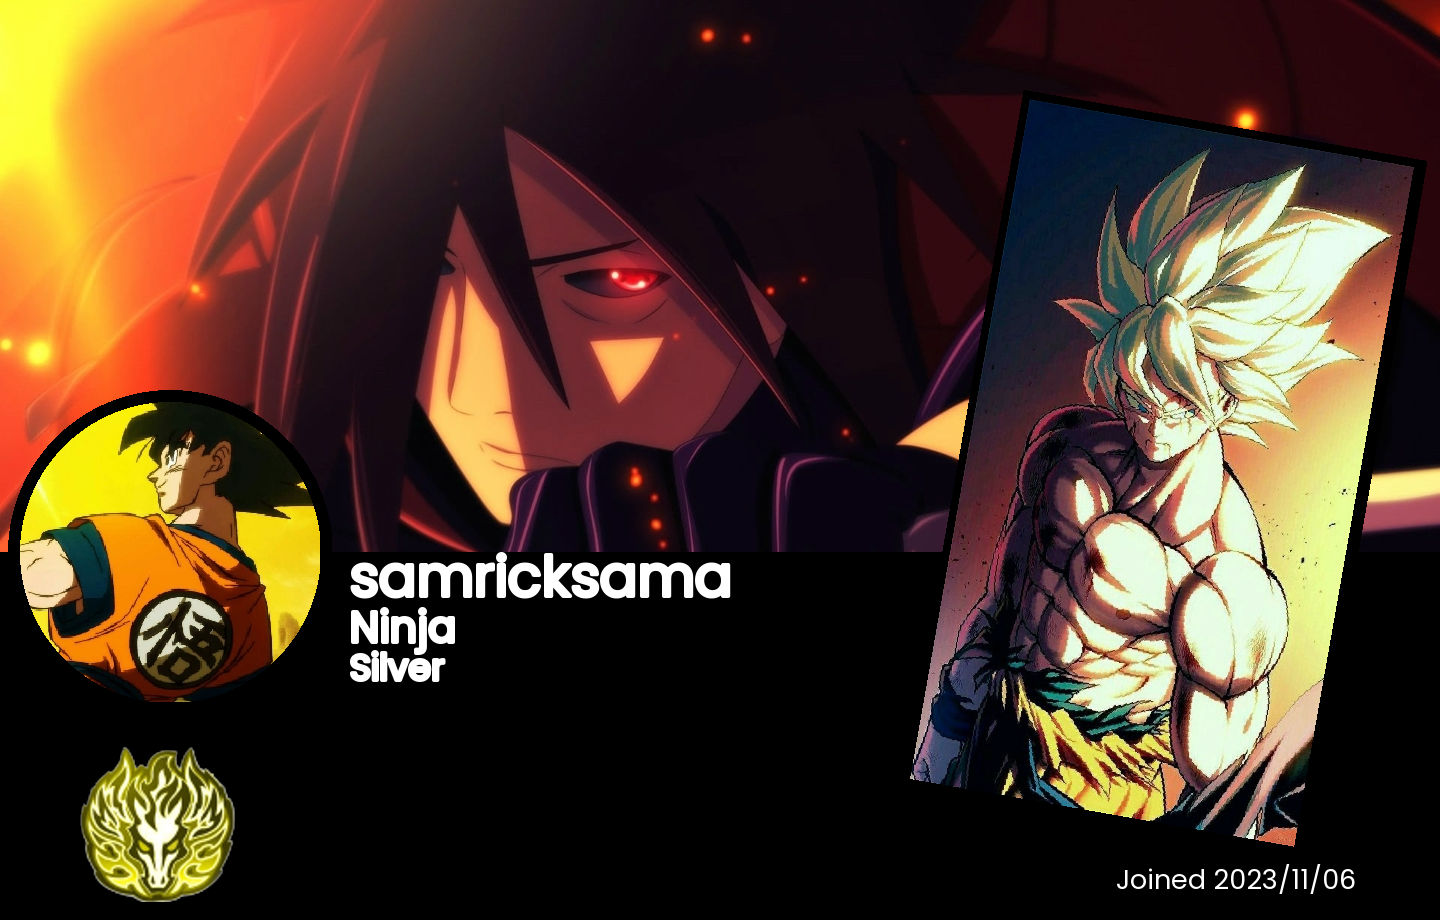
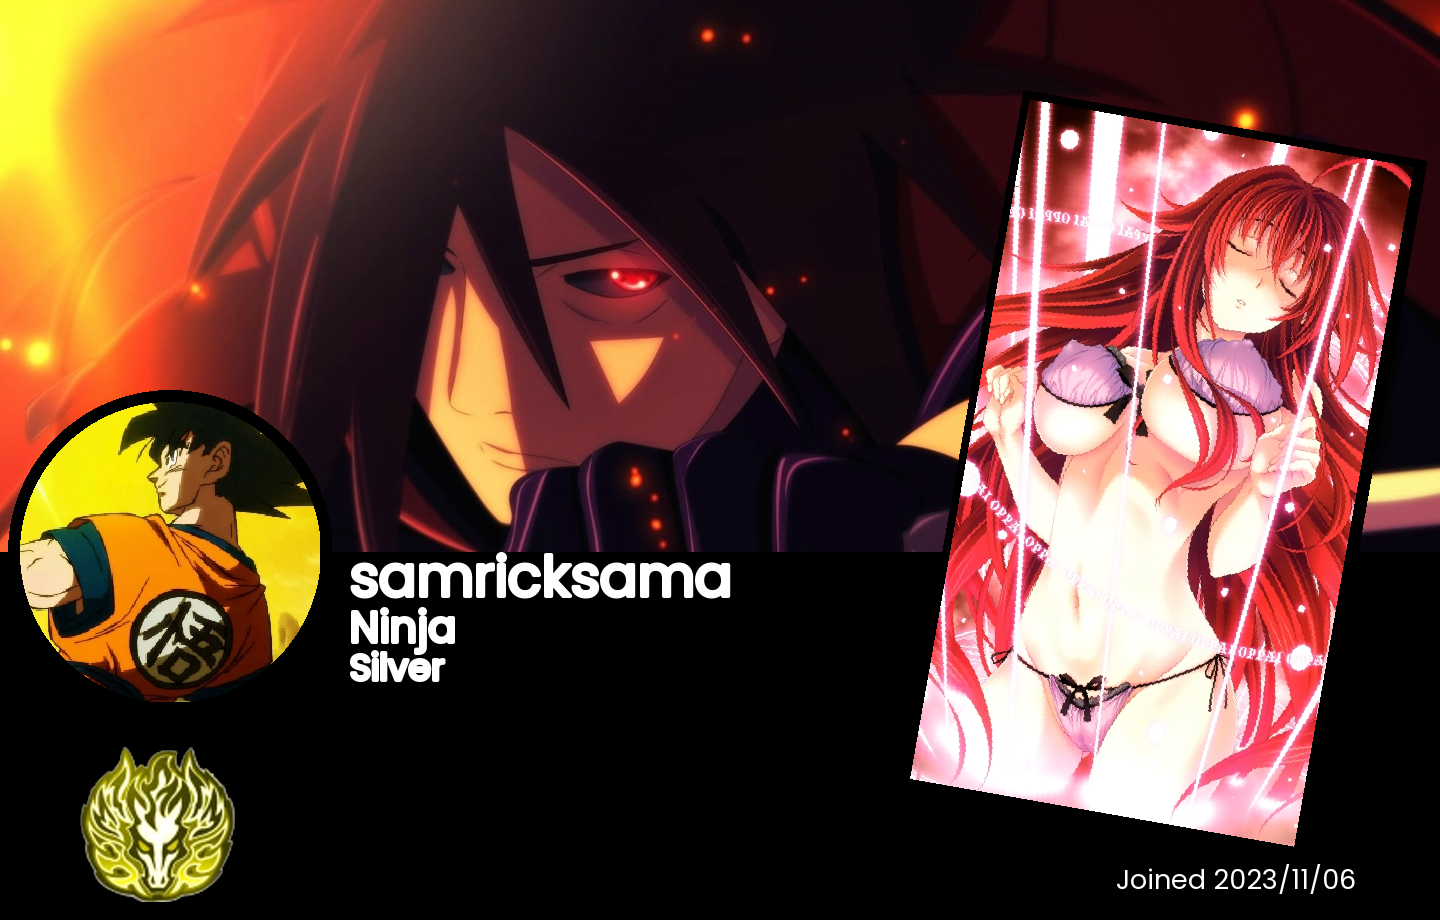
a

Changed region(s): [[0.625, 0.0913, 1.0, 0.9435]]

diff --git a/Convictions/bgshop.py b/Convictions/bgshop.py
@@ -90,7 +90,12 @@ background_prices = {
     84: 9000,
     85: 6900,
     86: 14000,
-    87: 15000
+    87: 15000,
+    88: 18000,
+    89: 9000,
+    90: 6900,
+    91: 14000,
+    
 }
 
 # Define background descriptions (adjust as needed)
@@ -181,7 +186,11 @@ background_descriptions = {
     84: "Itachi : Ur already in my genjutsu",
     85: "itachi : daddy version",
     86: "gojo : nice ",
-    87: "gojo: cool"
+    87: "gojo: cool",
+    88: "rem",
+    89: "ulquiorra",
+    90: "coyote stark",
+    91: "aizen : bleach"
 }
 
 async def show_background_shop(ctx, background_folder, user_balance,  filtered_backgrounds=None):

diff --git a/main.py b/main.py
@@ -873,7 +873,8 @@ card_info = {
   "36.jpg": {"name": "itachi", "description": "ur already in my genjutsu...  ", "price": 17500},
   "37.jpg": {"name": "samrick", "description": "DEv photo.. ", "price": 175000},
   "38.jpg": {"name": "ryuma", "description": "king of swords : wano hero ", "price": 11500},
-  "39.jpg": {"name": "radien", "description": "raiden babe shogun : genshin  ", "price": 12500}
+  "39.jpg": {"name": "raiden", "description": "raiden babe shogun : genshin  ", "price": 12500},
+  "40.jpg": {"name": "rias", "description": "boob ?  ", "price": 50000}
 
 
 }
